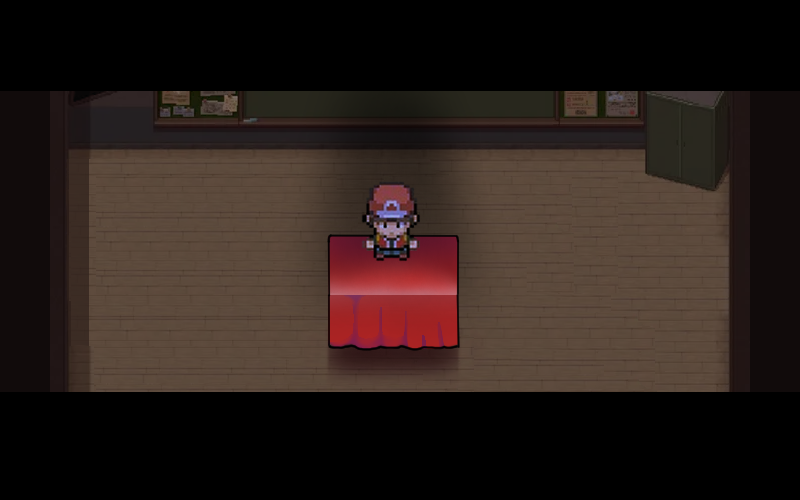
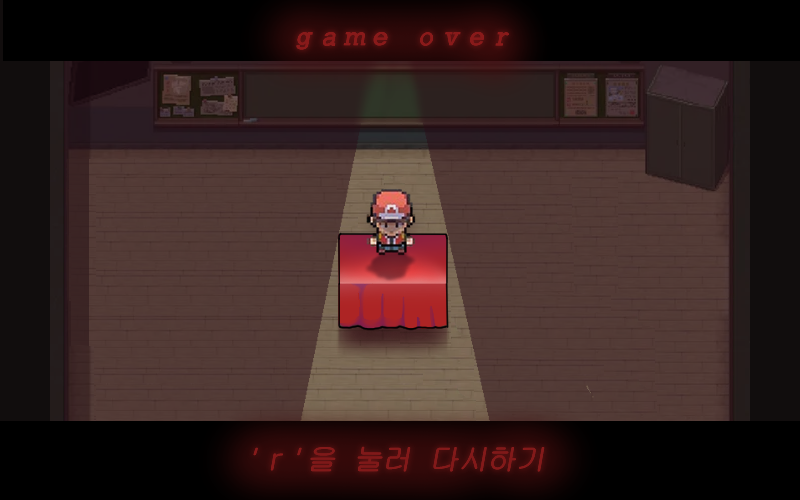
Update: 리셋 가능

Changed region(s): [[0.0625, 0.0, 0.9375, 0.99]]

diff --git a/result.py b/result.py
@@ -15,7 +15,7 @@ def handle_events():
             if event.key == SDLK_ESCAPE:
                 game_framework.quit()
             elif event.key == SDLK_r:  # R 키 조건 추가
-                server.mode=='logo'
+                server.mode='logo'
                 # 원하는 동작 추가
 
 def init():

diff --git a/player.py b/player.py
@@ -165,7 +165,7 @@ class Player:
         pass
 
     def get_bb(self):
-        return self.x-30,self.y-50,self.x+10,self.y
+        return self.x-30,self.y-40,self.x+10,self.y
         pass
 
     def attack(self):
